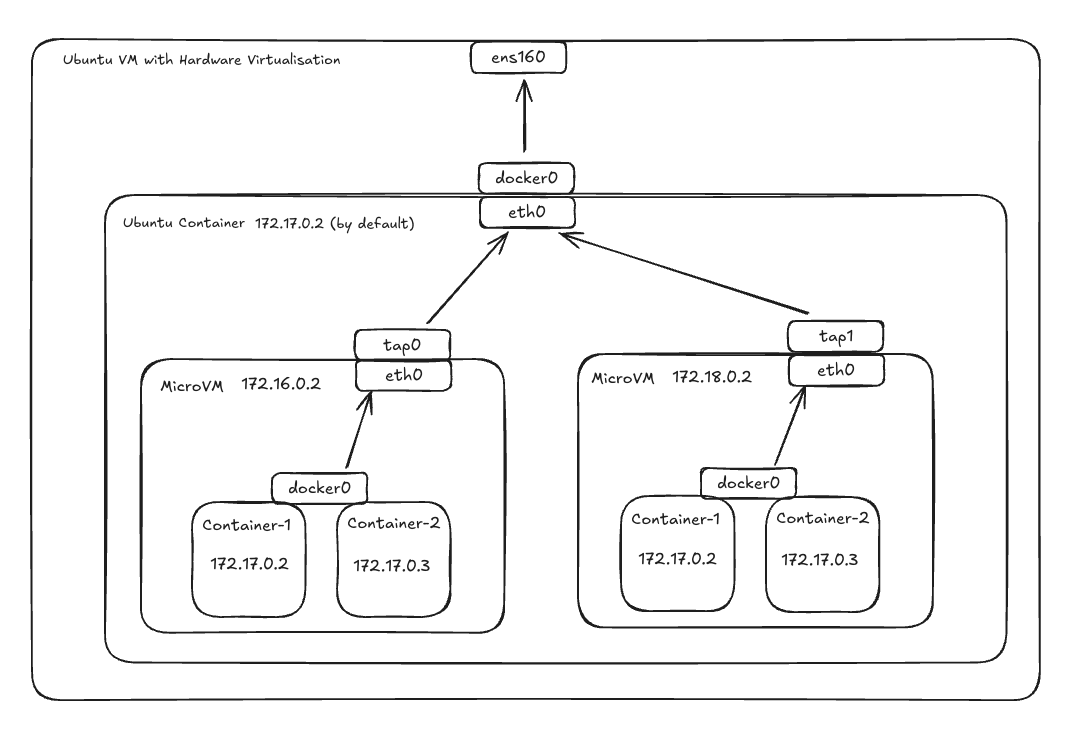
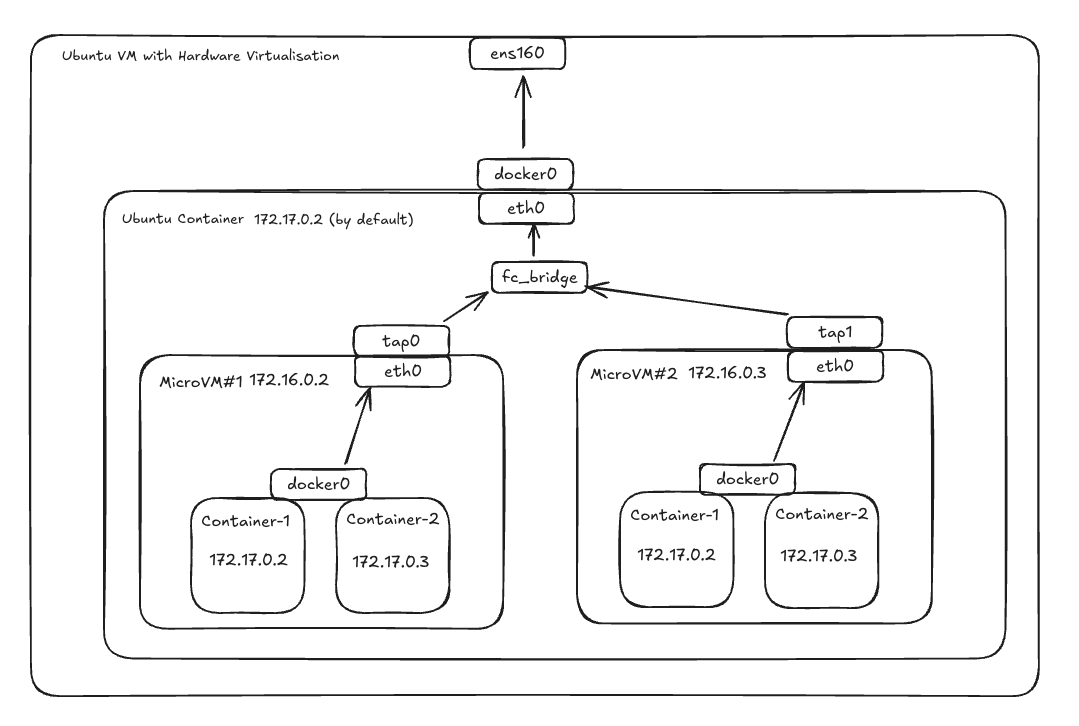
Creates script to configure iptables and create microvms to automate the process

diff --git a/README.md b/README.md
@@ -143,7 +143,7 @@ docker build -f Dockerfile.rootfs -t ubuntu-rootfs .
 docker run --privileged -it --rm -v $(pwd)/output:/output ubuntu-rootfs
 ```
 
-This will create output folder and put the image rootfs file named `image.ext4` under it. This will be our microVM's rootfs image.
+This will create output folder and put the image rootfs file named `image.ext4` under it. This will be our microVM's rootfs image. `Dockerfile.firecracker` copies rootfs from `firecracker` folder on this repo. So, you might want to copy it to `firecracker` folder before building the image. Same thing for kernel as well.
 
 ## Running Firecracker Container
 
@@ -151,7 +151,7 @@ You can run the ubuntu container with firecracker binary installed with below co
 
 1. Build the image with:
 ```sh
-docker build -f Dockerfile.firecracker -t ubuntu-systemd .
+docker build -f Dockerfile.firecracker -t ubuntu-firecracker .
 ```
 
 2. If you want to use different network than the default docker bridge, create the new bridge with:
@@ -162,60 +162,54 @@ docker network create --driver=bridge --subnet=172.31.0.0/30 --gateway=172.31.0.
 
 3. Run the image with:
 ```sh
-docker run -d --privileged --name ubuntu-firecracker ubuntu-systemd
+docker run -d -p 2200-2299:2200-2299 --privileged --device /dev/kvm --name firecracker-container ubuntu-firecracker
 
-# If you don't want to run the container with full priviliges, you can run it with below restrictions:
-docker run -d --cap-add=NET_ADMIN --cap-add=SYS_ADMIN --name ubuntu-firecracker ubuntu-systemd
+# If you want it to run in created network
+docker run -d -p 2200-2299:2200-2299 --privileged --device /dev/kvm --name firecracker-container --network br-test ubuntu-firecracker
 ```
 
-4. Run the firecracker MicroVM with(please read `What is this image doing` and `What is docker-entrypoint.sh doing` sections first):
+4. Run the firecracker MicroVM number 1 with(please read `What is this image doing`, `What is docker-entrypoint.sh doing` and `What is launch_microvm.sh doing?` sections first):
 ```sh
-docker exec -it ubuntu-firecracker firecracker --no-api --config-file /opt/firecracker/firecracker-config.json
+docker exec ubuntu-firecracker bash /usr/local/bin/launch_microvm.sh 1
 ```
 
-This will put you directly inside the microVM. It's not ideal because it's a serial console and ssh would be better, but it works for now. You can now run `docker run -d --name test -p 8080:80 httpd` inside the microVM and test it with `curl http://localhost:8080` and see it's working.
+5. SSH into microvm with:
+```sh
+ssh -i <generated_ssh_private_key_file> root@<ip_address_of_the_host_vm> -p 2201
+```
+This will create a bridge network inside the container with the ip address `172.16.0.1/24`. Then it'll create the tap device only for microvm number 1, create the config file and firecracker socket for microvm number 1, configure the iptables rules to redirect mapped port requests to microvm's ssh port and start the microvm.
+You can now run `docker run -d --name test -p 8080:80 httpd` inside the microVM and test it with `curl http://localhost:8080` and see it's working.
 
 **NOTE:** Inside the `Dockerfile.firecracker` dockerfile, there are lines to copy the compiled kernel and bootstrapped rootfs. You may change those lines with your file locations or you can copy them under `firecracker` folder in this repo.
 
 ### What is this image doing?
 
 - Uses `Ubuntu 24.04` as base image,
-- Installs widely-used packages in ubuntu along with packages to install docker,
-- Unminimize the ubuntu base image(you don't have to do this and it might change for me as well),
+- Installs required packages,
+- Configures SSHd
 - Installs `firecracker` binary
-- Creates `/opt/firecracker` folder and copies kernel, rootfs and firecracker config inside it,
+- Creates `/opt/firecracker` folder and copies kernel, rootfs and firecracker config template inside it,
+- Exposes container port `2200-2299` for microvm ssh access. These ports will be mapped to microvm ssh ports when creating,
+- Copies `launch_microvm.sh`, which is under `scripts` folder and created to automate microvm deployment inside the container,
 - Copies `docker-entrypoint.sh`, which is under `scripts` folder, and configure it as `CMD`
 
 ### What is `docker-entrypoint.sh` doing?
 
-- Creates a `/30` TAP device named `tap0`,
-- Sets the IP address as `172.16.0.1/30`,
-- Brings this device up,
+- Creates a bridge network with the name `fc_bridge` and assign ip address `172.16.0.1/24` address to it and bring it to up state(this will be the bridge network that all microvm tap devices will be connected to),
 - Enables IP Forwarding `sysctl` option,
 - Setups `iptables` rules for NAT(necessarry for microVM internet access through container's interface)
-- Starts the `systemd`
+- Runs `tail -f /dev/null` command to keep the container up
+
+### What is `launch_microvm.sh` doing?
+
+- Run the script with microvm number, you can give a number between 1-99,
+- Sets required environment variables based on given number like bridge name ssh base port, which is 2200, and tap id,
+- Creates the `tap<x>` device without an ip address(you can change it, I chose to connect every microvm inside a container to connect to the same bridge for them to talk each other),
+- Generates the firecracker config file `config_<x>.json` based on variables,
+- Starts the microvm using generated config file and generated api socker,
+- Configures container's iptables to accept and redirect all the traffic destined to `2200 + VM_ID` to `172.16.0.{VM_ID + 1}:22` ip and port
+
 
 We now have a running `httpd` container inside an ubuntu 24.04 microVM which runs inside an ubuntu 24.04 container which runs inside a VM with the OS choice of yours(mine was ubuntu 24.04). With this, you have the below setup:
 
 ![Setup](images/setup.png)
-
-## **IMPORTANT**:
-
-`docker-entrypoint.sh` is creating the TAP device and `iptables` NAT rules but it's useful to check if the rule exists since it's crucial for microVM's internet access.
-
-```sh
-# -t nat: Specifies the nat table.
-# -A POSTROUTING: Appends the rule to the POSTROUTING chain. This chain is used for altering packets as they leave the network interface.
-# -o eth0: Specifies that this rule applies to packets going out through the eth0 interface.
-# -j MASQUERADE: Tells iptables to perform source NAT, replacing the source IP address with the IP of the outgoing interface (eth0)
-
-iptables -t nat -A POSTROUTING -o "$HOST_IFACE" -j MASQUERADE
-
-# List existing rules with below:
-iptables -t nat -L POSTROUTING -n -v --line-numbers
-# Example output, see the second rule:
-# Chain POSTROUTING (policy ACCEPT 42 packets, 2712 bytes)
-# num   pkts bytes target              prot opt in     out     source               destination
-# 1        2   152 DOCKER_POSTROUTING  0    --  *      *       0.0.0.0/0            127.0.0.11
-# 2        0     0 MASQUERADE          0    --  *      eth0    0.0.0.0/0            0.0.0.0/0
-```
